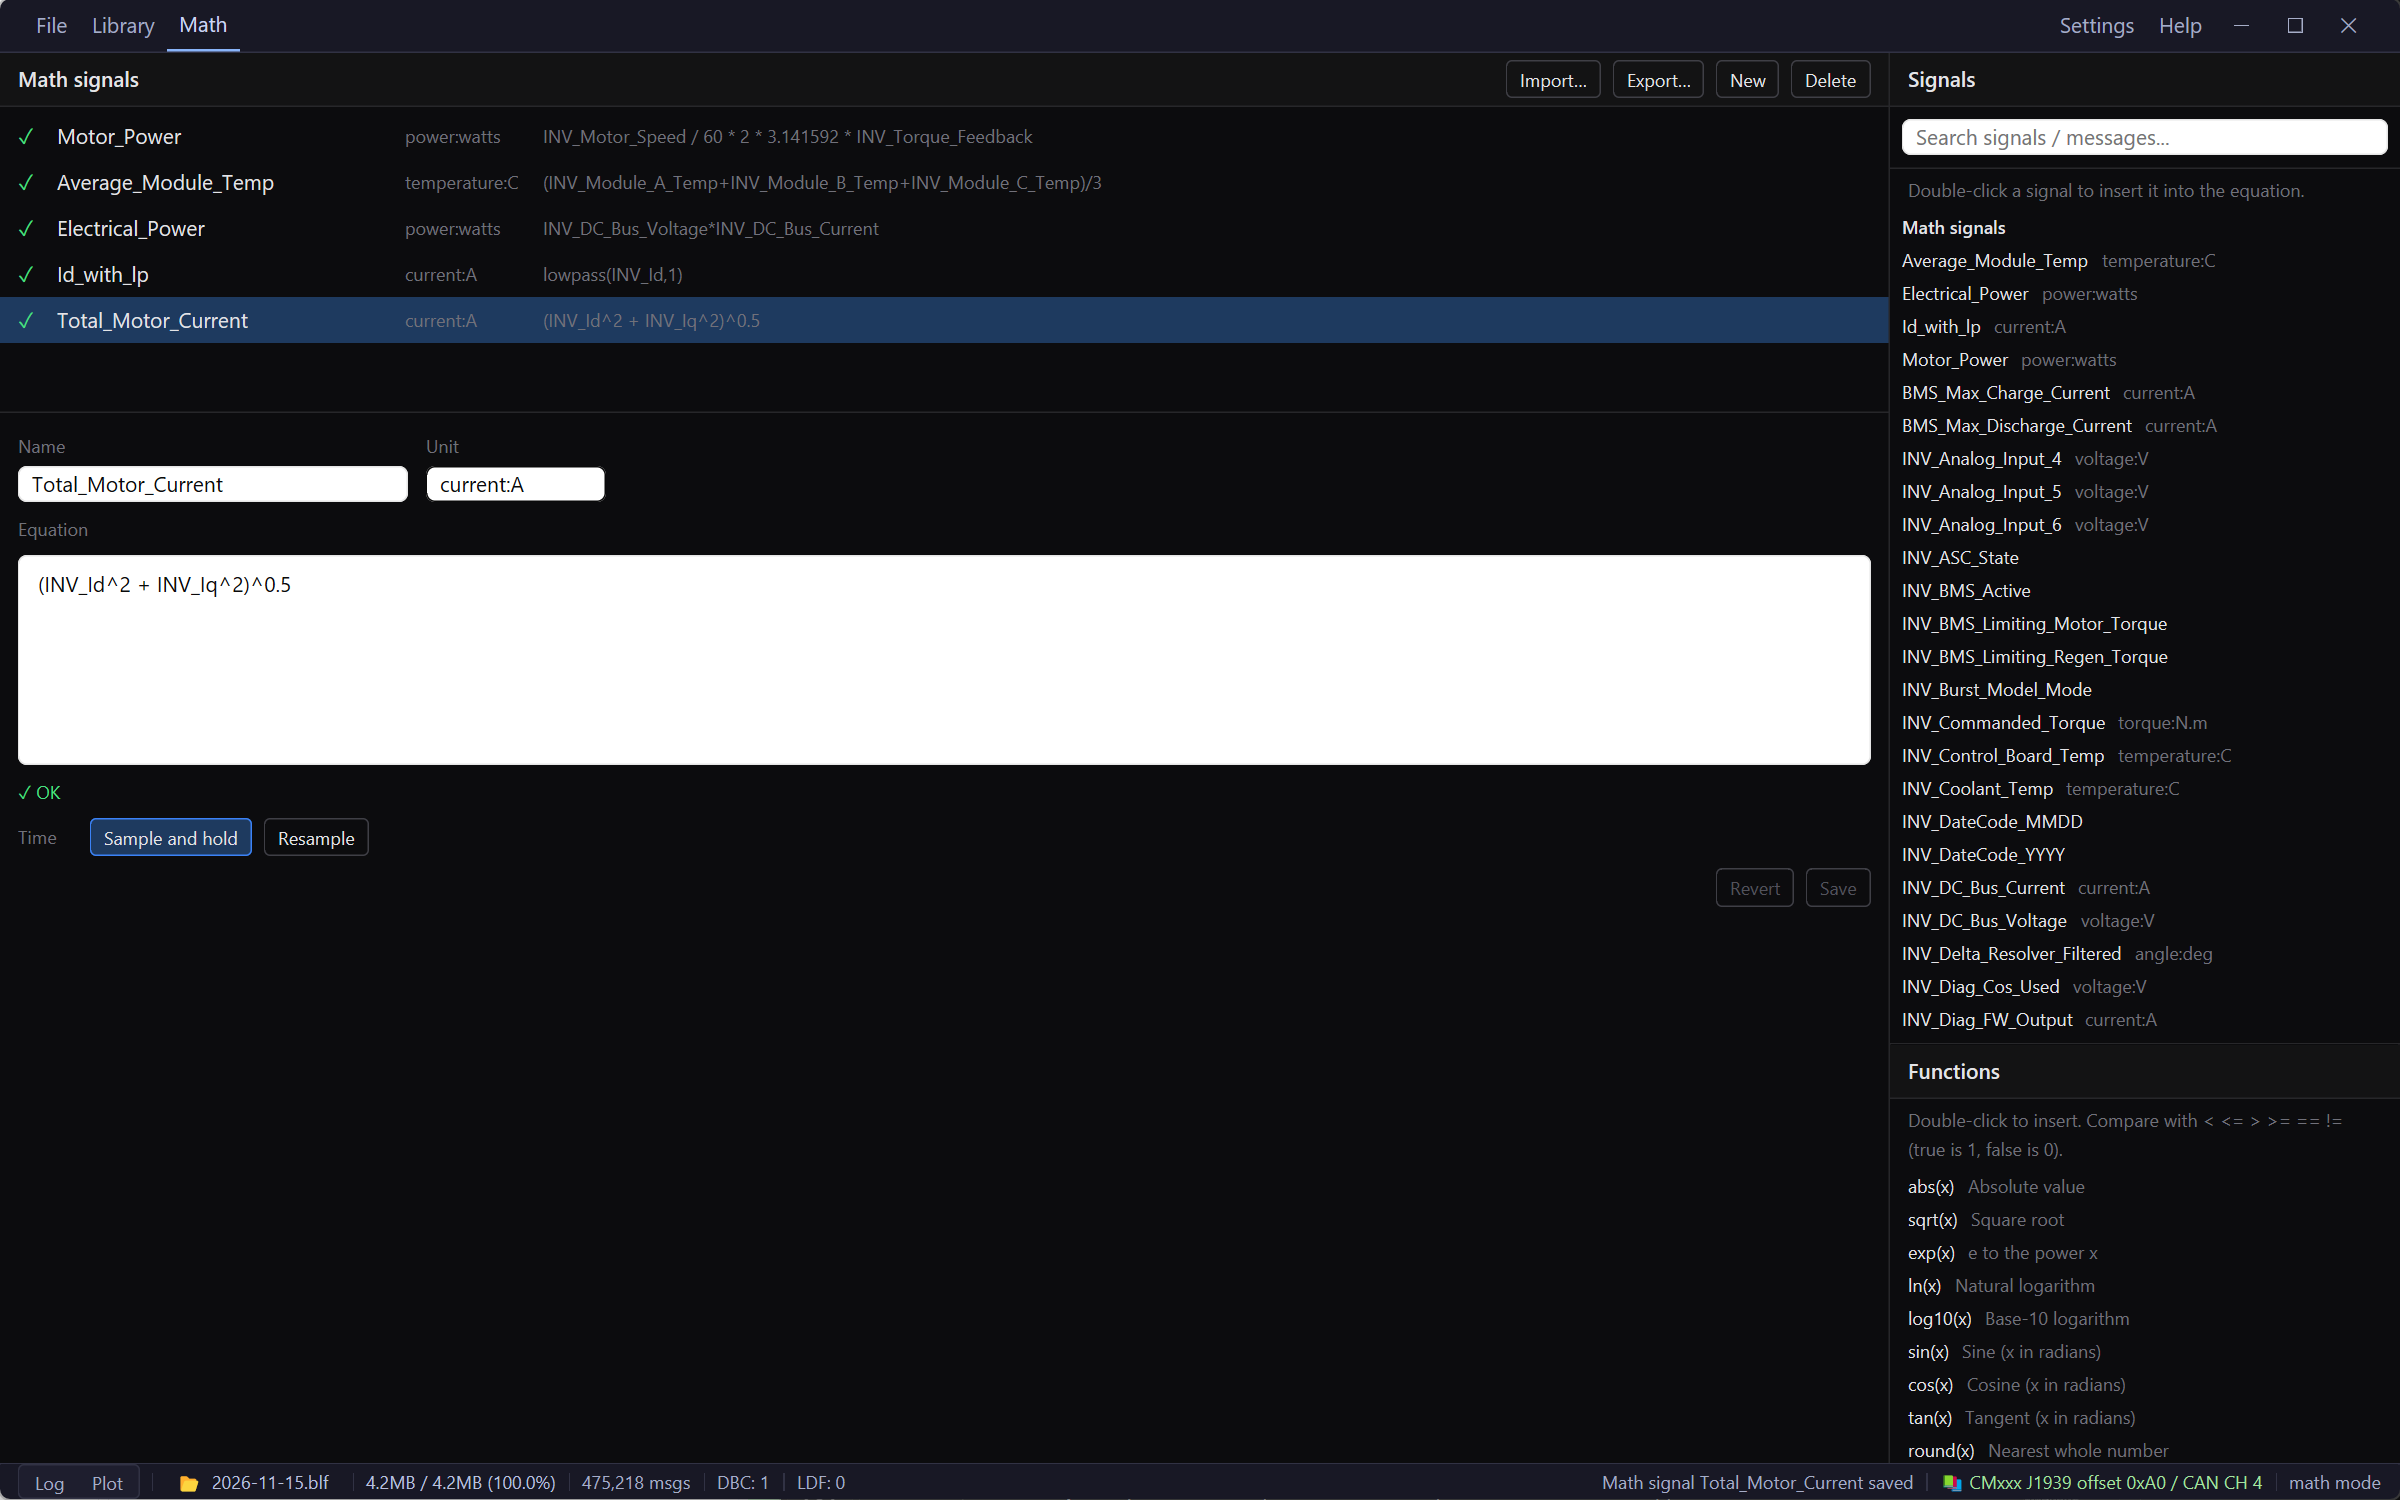
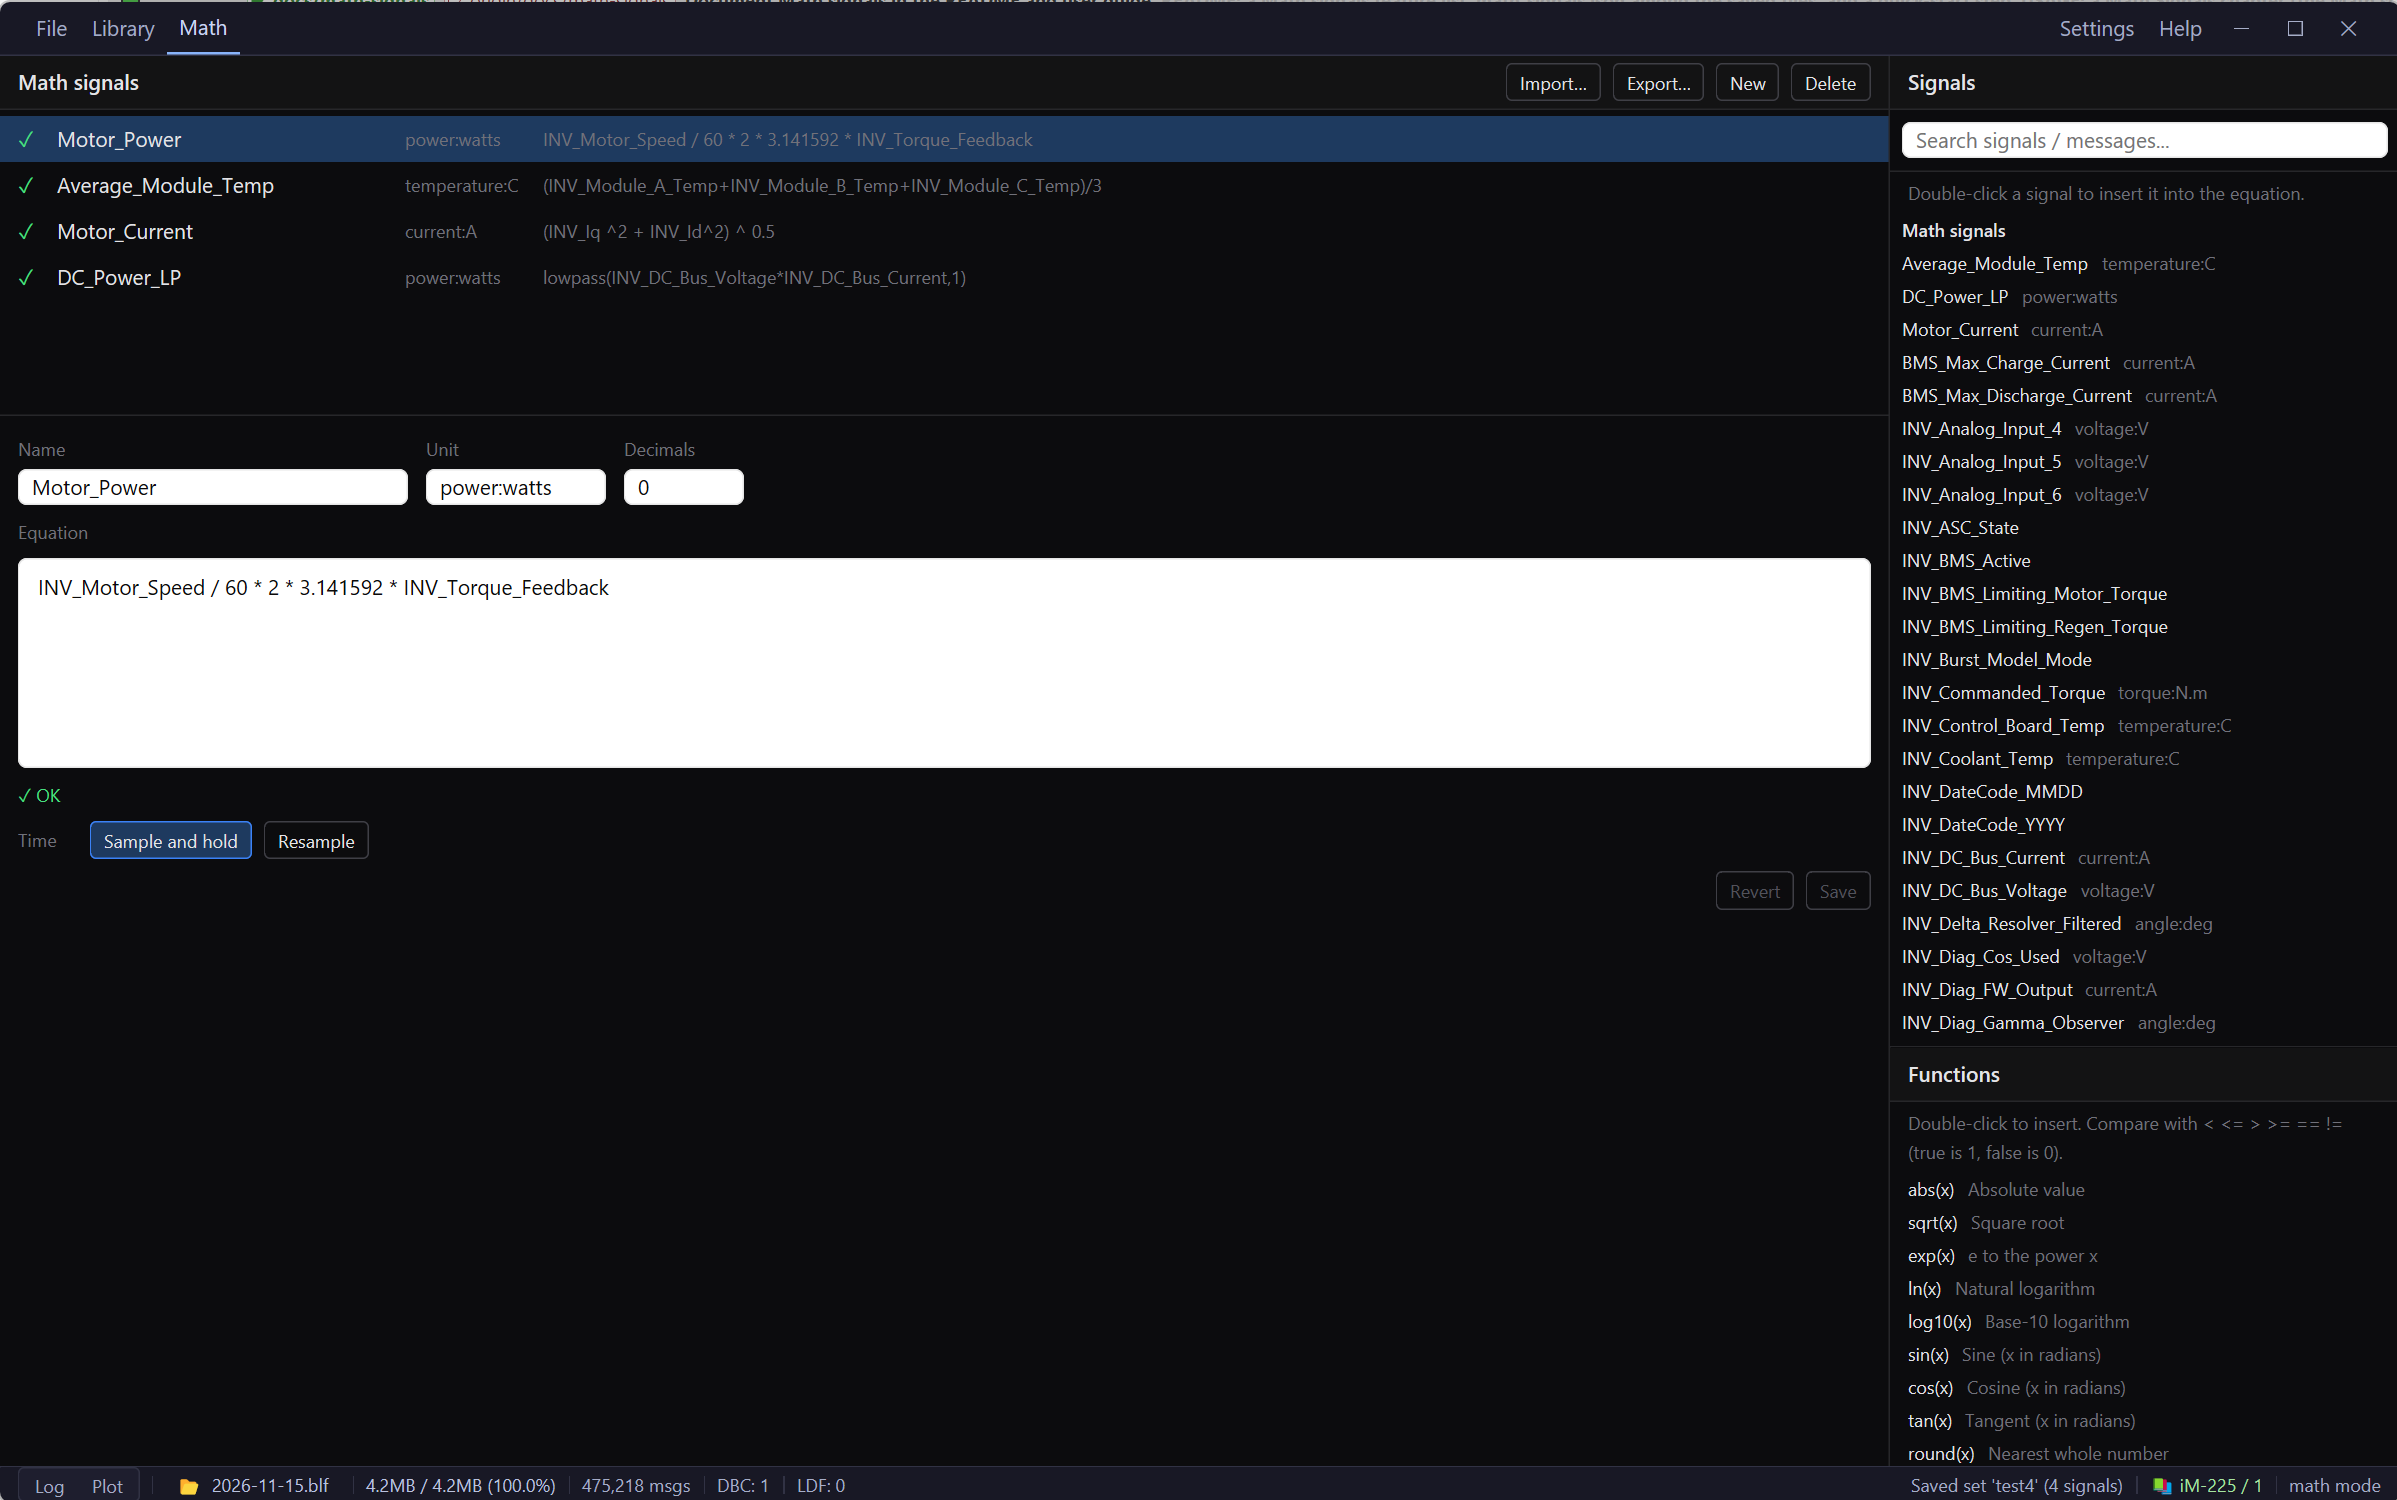
Document the Math signal Decimals setting.
Adds a Decimals section and the field to the Math screen sketch in the
user guide, and updates the Math view screenshot to show it.

diff --git a/docs/USAGE.md b/docs/USAGE.md
@@ -217,7 +217,7 @@ Click **Math** in the top bar (right of **Library**).
 │ ✓ Motor_Power  kW  Motor_Speed * …         │ Math signals               │
 │ ⚠ Wheel_Slip   %   (A - B) / B * 100       │   Motor_Power              │
 │                                            │ Channel 1 (CAN)            │
-│ Name [Motor_Power]   Unit [kW]             │   Motor (0x100)            │
+│ Name [Motor_Power] Unit [kW] Decimals [1]  │   Motor (0x100)            │
 │ ┌───────────────────────────────────┐      │     Motor_Speed   rpm      │
 │ │ Motor_Speed * Motor_Torque / 9549 │      │     Motor_Torque  Nm       │
 │ └───────────────────────────────────┘      │                            │
@@ -228,11 +228,15 @@ Click **Math** in the top bar (right of **Library**).
 ```
 
 - **List (top left).** Every Math signal with its unit and equation. The mark in front shows whether it can be computed with the active library: ✓ yes, ⚠ the equation reads fine but a name can't be used with this library, ✗ the equation can't be read. A `•` after the name means the editor has unsaved changes.
-- **Editor (below the list).** Click a row to edit its name, unit, equation and time mode, then click **Save**, or **Revert** to go back to what is saved. If you click another row with unsaved changes, CANdata asks whether to discard them.
+- **Editor (below the list).** Click a row to edit its name, unit, decimals, equation and time mode, then click **Save**, or **Revert** to go back to what is saved. If you click another row with unsaved changes, CANdata asks whether to discard them.
 - **Signals (right).** Your other Math signals, then the signals of the active library. They are grouped by message or listed alphabetically, following **Settings → Plot signal list**, and the search box filters them. **Double-click** a signal to insert its name into the equation at the cursor.
 - **Functions (bottom right).** Double-click a function to insert it with the cursor between its brackets.
 
 **New** adds a Math signal named `Math_1`, `Math_2`, … and puts the cursor in **Name** so you can rename it. **Delete** asks first, and names the Math signals and signal sets that use the one being deleted.
+
+### Decimals
+
+**Decimals**, to the right of **Unit**, sets how many decimal places the plot shows for this Math signal's value at the cursor, in the lane header and the signal list. Enter a whole number from 0 to 9. New Math signals, and ones saved before this setting existed, show 3.
 
 ### Names
 
